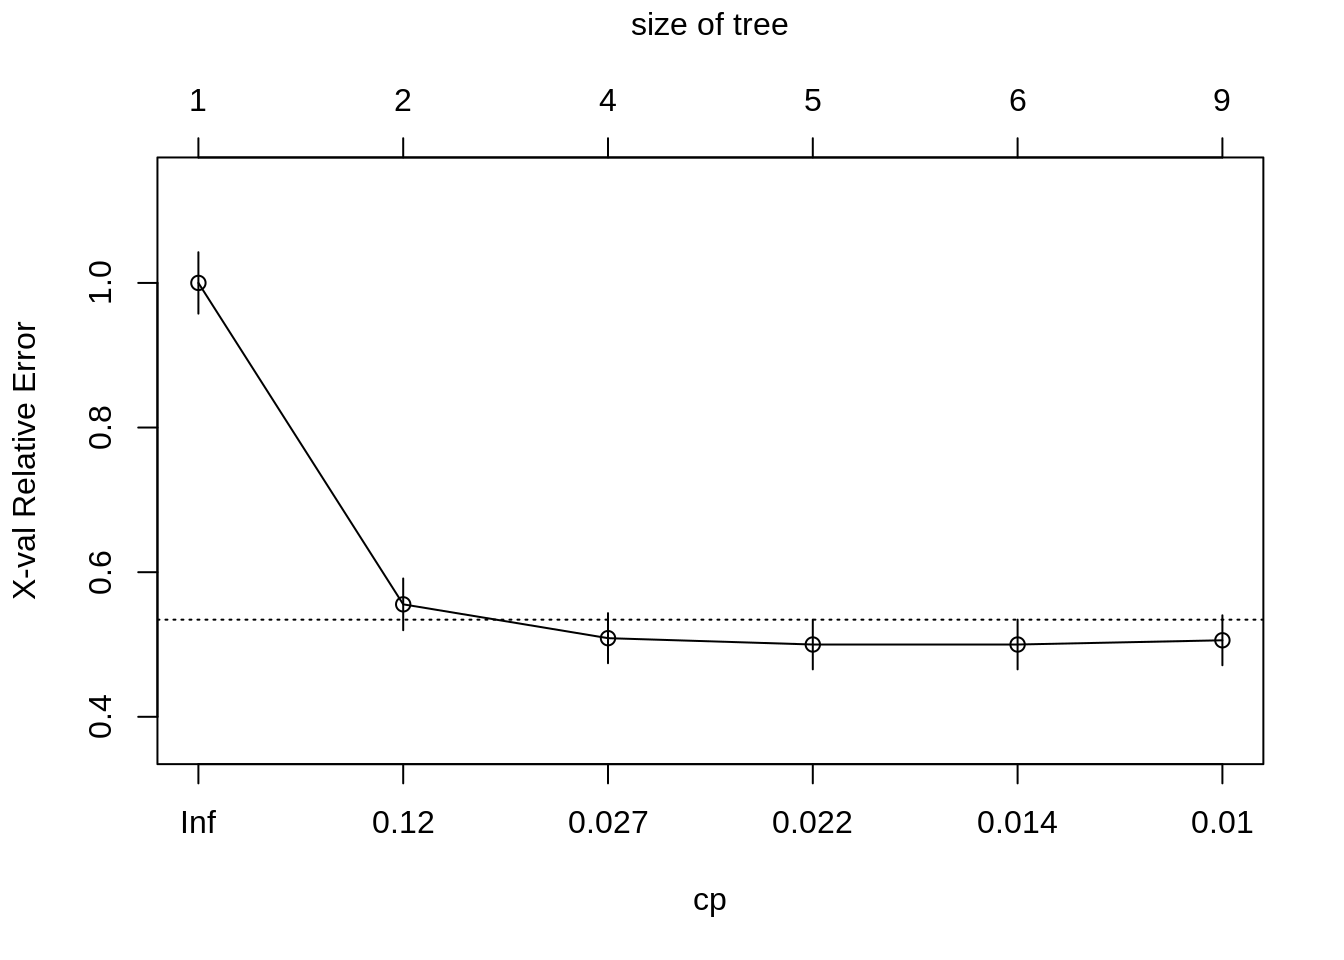
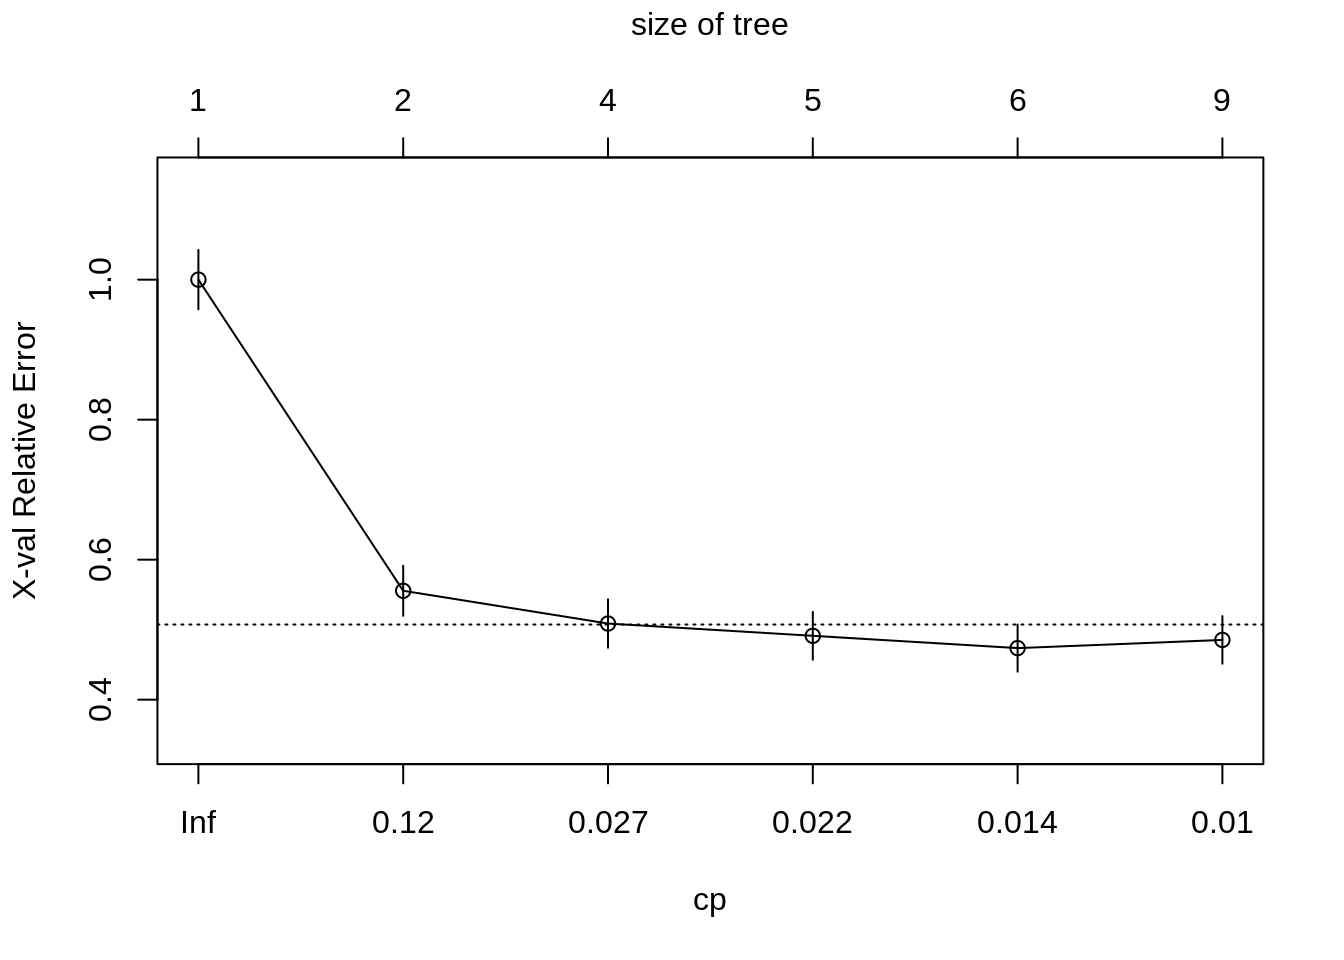
Deploy lebebr01/stat_thinking to github.com/lebebr01/stat_thinking.git:master

diff --git a/docs/classification.html b/docs/classification.html
@@ -325,9 +325,9 @@ titanic &lt;-<span class="st"> </span><span class="kw">bind_rows</span>(titanic_
 ## 1 0.444444      0   1.00000 1.00000 0.042446
 ## 2 0.030702      1   0.55556 0.55556 0.035750
 ## 3 0.023392      3   0.49415 0.50877 0.034599
-## 4 0.020468      4   0.47076 0.50000 0.034372
-## 5 0.010234      5   0.45029 0.50000 0.034372
-## 6 0.010000      8   0.41813 0.50585 0.034524</code></pre>
+## 4 0.020468      4   0.47076 0.49123 0.034140
+## 5 0.010234      5   0.45029 0.47368 0.033663
+## 6 0.010000      8   0.41813 0.48538 0.033983</code></pre>
 <div class="sourceCode"><pre class="sourceCode r"><code class="sourceCode r"><span class="kw">plotcp</span>(class_tree)</code></pre></div>
 <p><img src="05-classification_files/figure-html/unnamed-chunk-6-1.png" width="672" /></p>
 <div class="sourceCode"><pre class="sourceCode r"><code class="sourceCode r">prune_class_tree &lt;-<span class="st"> </span><span class="kw">prune</span>(class_tree, <span class="dt">cp =</span> .<span class="dv">02</span>)

diff --git a/docs/05-classification.md b/docs/05-classification.md
@@ -250,9 +250,9 @@ printcp(class_tree)
 ## 1 0.444444      0   1.00000 1.00000 0.042446
 ## 2 0.030702      1   0.55556 0.55556 0.035750
 ## 3 0.023392      3   0.49415 0.50877 0.034599
-## 4 0.020468      4   0.47076 0.50000 0.034372
-## 5 0.010234      5   0.45029 0.50000 0.034372
-## 6 0.010000      8   0.41813 0.50585 0.034524
+## 4 0.020468      4   0.47076 0.49123 0.034140
+## 5 0.010234      5   0.45029 0.47368 0.033663
+## 6 0.010000      8   0.41813 0.48538 0.033983
 ```
 
 ```r
